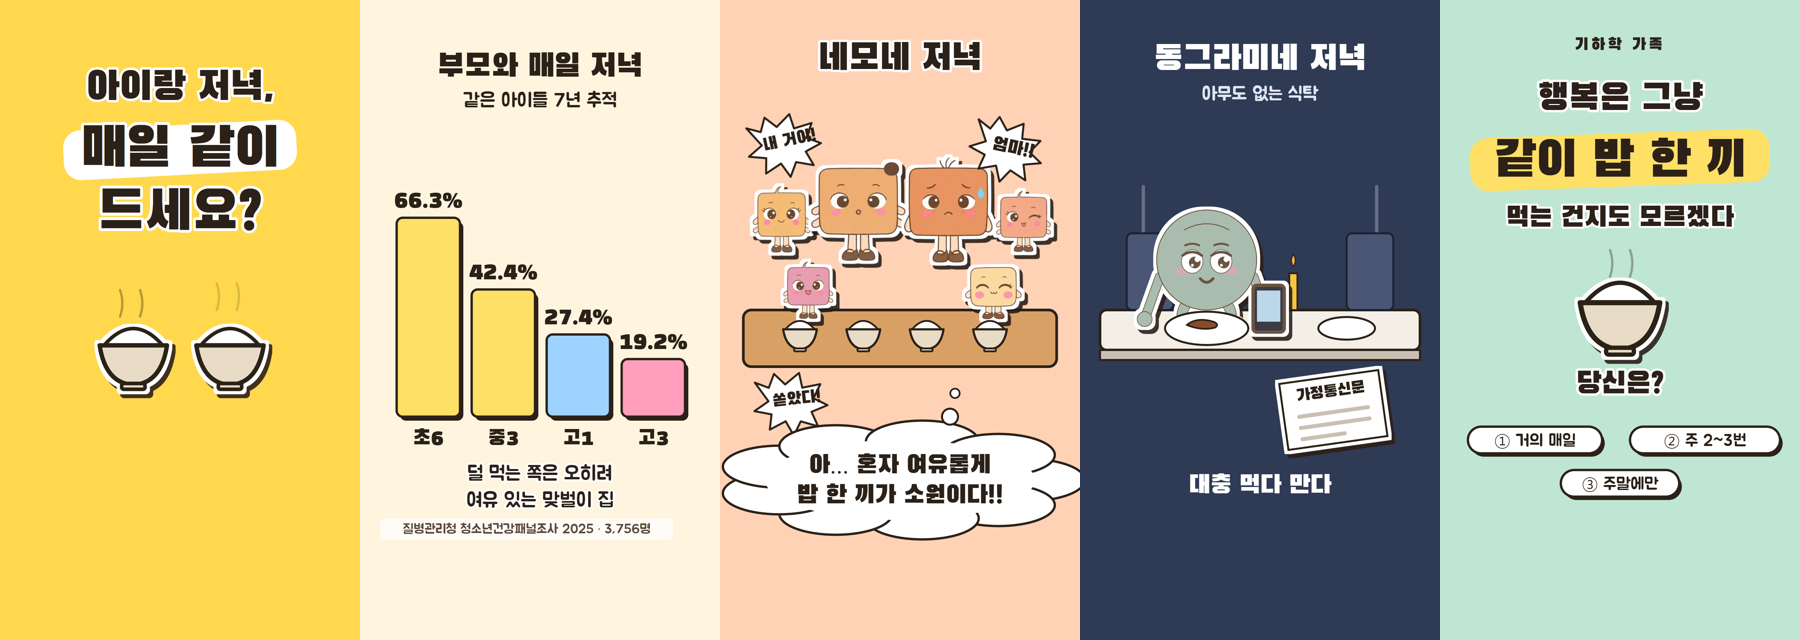
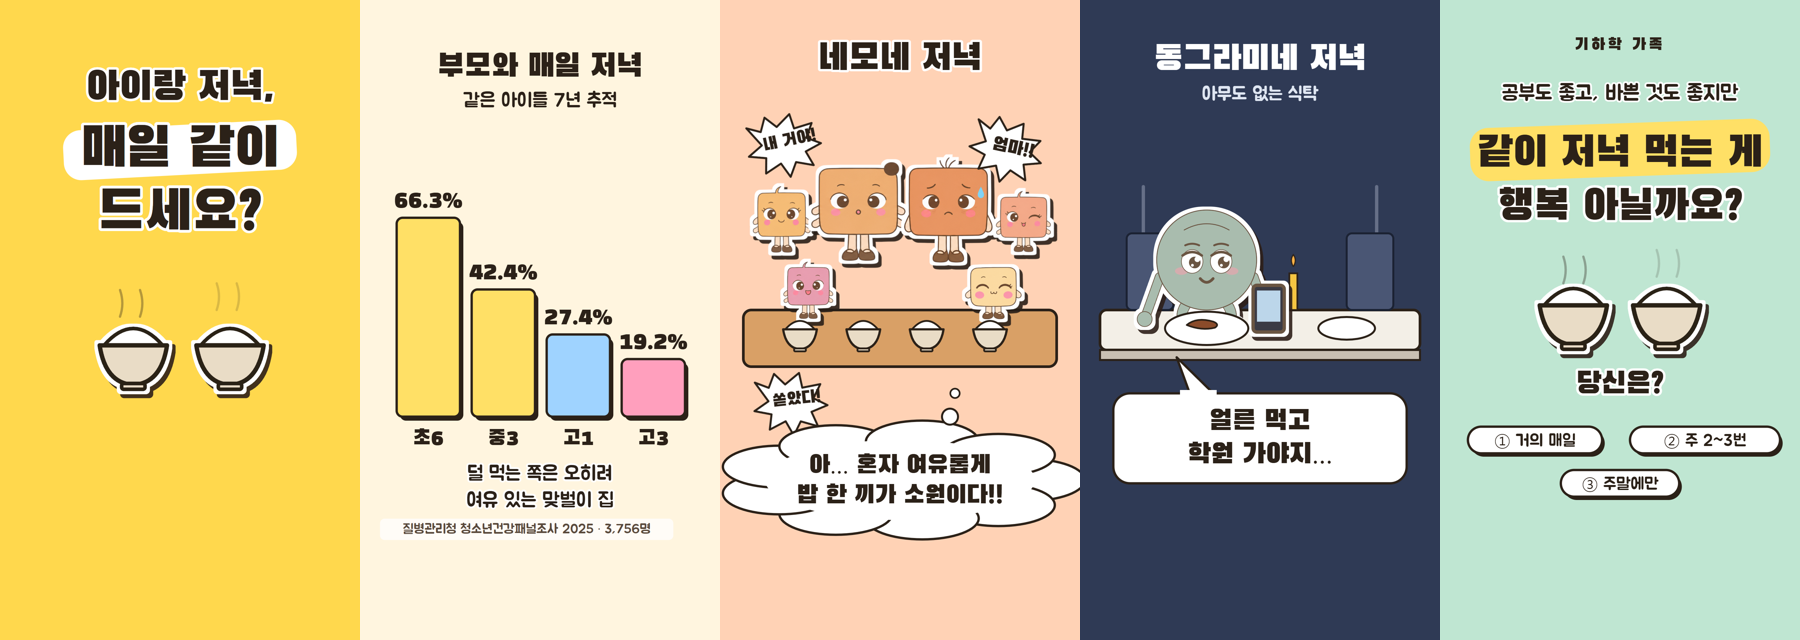
[shorts] s03 v2 — 작가 수정: 나레이션은 1·2·5컷만, 네모네는 움직임으로, 동그라미 아들 말풍선 '얼른 먹고 학원 가야지…', 착지 '같이 저녁 먹는 게 행복 아닐까요?'
도구: 나레이션/녹음 제목 뒤 부제 허용. 밥그릇 스티커 개별 적용(필터 잘림 수정).

Claude-Session: https://claude.ai/code/session_01B59xgHZtNiHCFMMXcUhcu9

Changed region(s): [[0.8089, 0.125, 0.9956, 0.375], [0.5911, 0.5625, 0.8089, 0.7812], [0.84, 0.4062, 0.9644, 0.5625]]

diff --git a/web/shorts/s03.html b/web/shorts/s03.html
@@ -43,7 +43,7 @@ frame(C.yellow, `
   ${T(540, 300, '아이랑 저녁,', 120, { font: HEAD, outline: 14 })}
   ${hl(540, 450, 700, 150, '#fff', -3)}
   ${head(['매일 같이', '드세요?'], 500, 165)}
-  ${sticker(bowl(400, 1080, 2.2, '#e9dcc6') + bowl(690, 1080, 2.2, '#e9dcc6'))}
+  ${sticker(bowl(400, 1080, 2.2, '#e9dcc6'))}${sticker(bowl(690, 1080, 2.2, '#e9dcc6'))}
   ${steam(390, 950)}${steam(680, 950, -0.5)}
 `);
 
@@ -95,23 +95,26 @@ frame('#2f3a55', `
   ${sticker(anim('a-slow', dongSon({ cx: 380, cy: 780, r: 150, emo: 'good', gaze: 1, item: 'phone' })))}
   ${plate(380, 985, 250, `<path d="M320,975 q30,-25 80,-10 q20,8 5,18 q-40,10 -85,-8z" fill="#8a4b2a" stroke="${INK2}" stroke-width="5"/>`)}
   ${plate(800, 985, 170)}
-  ${sticker(notice(760, 1230, -8))}
-  ${T(540, 1480, '대충 먹다 만다', 76, { font: HEAD, fill: '#fff' })}
+  <path d="M150,1180 h780 a50,50 0 0 1 50,50 v170 a50,50 0 0 1 -50,50 h-780 a50,50 0 0 1 -50,-50 v-170 a50,50 0 0 1 50,-50z" fill="#fff" stroke="${INK2}" stroke-width="7"/>
+  <path d="M330,1182 l-40,-110 l110,108z" fill="#fff" stroke="${INK2}" stroke-width="7" stroke-linejoin="round"/>
+  <rect x="300" y="1170" width="110" height="20" fill="#fff"/>
+  ${T(540, 1290, '얼른 먹고', 84, { font: HEAD })}
+  ${T(540, 1390, '학원 가야지…', 84, { font: HEAD })}
 `);
 
 // ── 5 착지 — 작가 나레이션 ──
 frame(C.mint, `
-  ${T(540, 330, '행복은 그냥', 110, { font: HEAD, outline: 14 })}
-  ${hl(540, 480, 900, 160, C.hlY, -2)}
-  ${head(['같이 밥 한 끼'], 530, 150, { outline: 0 })}
-  ${T(540, 680, '먹는 건지도 모르겠다', 84, { font: HEAD, outline: 12 })}
-  ${sticker(bowl(540, 960, 2.6, '#e9dcc6'))}
-  ${steam(540, 830)}
+  ${T(540, 150, '기하학 가족', 50, { font: HEAD, extra: 'letter-spacing="8"' })}
+  ${T(540, 300, '공부도 좋고, 바쁜 것도 좋지만', 64, { outline: 10 })}
+  ${hl(540, 450, 900, 160, C.hlY, -2)}
+  ${head(['같이 저녁 먹는 게'], 500, 128, { outline: 0 })}
+  ${T(540, 660, '행복 아닐까요?', 128, { font: HEAD, outline: 14 })}
+  ${sticker(bowl(400, 960, 2.2, '#e9dcc6'))}${sticker(bowl(680, 960, 2.2, '#e9dcc6'))}
+  ${steam(400, 850)}${steam(680, 850, -0.5)}
   ${T(540, 1180, '당신은?', 90, { font: HEAD, outline: 14 })}
   ${pill(285, 1320, '① 거의 매일', 50)}
   ${pill(795, 1320, '② 주 2~3번', 50)}
   ${pill(540, 1450, '③ 주말에만', 50)}
-  ${T(540, 150, '기하학 가족', 50, { font: HEAD, extra: 'letter-spacing="8"' })}
 `);
 
 SH.mount();

diff --git a/tools/shorts_video.py b/tools/shorts_video.py
@@ -26,7 +26,7 @@ def read_table(md):
 
 def read_narration(md):
     """「## 나레이션」 표 → {컷 번호: 대사}"""
-    sec = re.search(r"## 나레이션\n(.*?)(?=\n## |\Z)", md, re.S)
+    sec = re.search(r"## 나레이션[^\n]*\n(.*?)(?=\n## |\Z)", md, re.S)
     if not sec:
         return {}
     return {int(m[1]): m[2].strip() for m in re.finditer(r"^\|\s*(\d+)\s*\|\s*([^|]+?)\s*\|\s*$", sec[1], re.M)}
@@ -56,7 +56,7 @@ async def tts(lines, voice, rate, outdir):
 
 def read_rec(md):
     """「## 녹음」 표 → {컷 번호: [(시작, 끝), …]}"""
-    sec = re.search(r"## 녹음\n(.*?)(?=\n## |\Z)", md, re.S)
+    sec = re.search(r"## 녹음[^\n]*\n(.*?)(?=\n## |\Z)", md, re.S)
     if not sec:
         return {}
     out = {}

diff --git a/content/shorts/s03.md b/content/shorts/s03.md
@@ -16,18 +16,16 @@
 | 1 | 0.0–2.5 | `f1.png` | **아이랑 저녁, 매일 같이 드세요?** / 밥그릇 두 개, 김 | 김 피어오름(루프) |
 | 2 | 2.5–6.0 | `f2.png` | 계단 막대 초6 66.3% · 중3 42.4% · 고1 27.4% · 고3 19.2% / 덜 먹는 쪽은 여유 있는 맞벌이 집 | 정지 |
 | 3 | 6.0–10.0 | `f3.png` | 네모네 여섯 식구 왁자지껄 + 외침 3개 / 속마음 "아… 혼자 여유롭게 밥 한 끼가 소원이다!!" | 식구들 엇박자로 들썩·오물, 외침 흔들(루프) |
-| 4 | 10.0–14.0 | `f4.png` | 동그라미네 빈 고급 식탁, 아들 혼자 폰, 먹다 만 접시, 가정통신문 | 아들 느린 숨, 촛불만 흔들(루프) |
-| 5 | 14.0–18.0 | `f5.png` | **행복은 그냥 같이 밥 한 끼 먹는 건지도 모르겠다** + ①②③ | 김 피어오름(루프) |
+| 4 | 10.0–14.0 | `f4.png` | 동그라미네 빈 고급 식탁, 아들 혼자 폰, 먹다 만 접시 / 말풍선 "얼른 먹고 학원 가야지…" | 아들 느린 숨, 촛불만 흔들(루프) |
+| 5 | 14.0–18.0 | `f5.png` | 공부도 좋고, 바쁜 것도 좋지만 **같이 저녁 먹는 게 행복 아닐까요?** + ①②③ | 김 피어오름(루프) |
 
-## 나레이션
-작가 녹음 예정. 3컷 속마음은 크게("소원이다!!"), 4컷은 조용히, 5컷은 가장 느리게.
+## 나레이션 (v2, 2026-09-29 작가 수정: 말은 줄이고 그림이 말한다)
+3·4컷은 **나레이션 없음** — 네모네 왁자지껄은 움직임과 그림으로, 동그라미네는 아들 말풍선으로.
 | 컷 | 대사 |
 |---|---|
 | 1 | 아이랑 저녁, 매일 같이 드세요? |
-| 2 | 같은 아이들을 칠 년 따라가 봤더니, 초6 땐 셋 중 둘이 매일. 고3이 되니, 다섯 중 하나. 덜 먹는 쪽은 오히려, 여유 있는 맞벌이 집이었어요. |
-| 3 | 정신없이 왁자지껄한 네모네 저녁. 네모는 생각한다. …아, 혼자 여유롭게 밥 한 끼 먹는 게 소원이다! |
-| 4 | 아무도 없는 동그라미네 고급 식탁. 아들은 폰을 보며, 대충 먹다 만다. 그리곤 옆에, 통신문을 내려놓는다. |
-| 5 | 행복은 그냥, 같이 밥 한 끼 먹는 건지도 모르겠다. 당신은요? |
+| 2 | 초6 땐 셋 중 둘이 매일. 고3이 되면, 다섯 중 하나. |
+| 5 | 공부도 좋고, 바쁜 것도 좋지만, 같이 저녁 먹는 게 행복 아닐까요? |
 
 ## 녹음
 (녹음 대기)
@@ -35,7 +33,7 @@
 ## 업로드
 - 제목: `아이랑 저녁, 매일 같이 드세요? #shorts`
 - 캡션: `초6 땐 셋 중 둘, 고3이 되면 다섯 중 하나.
-행복은 그냥, 같이 밥 한 끼 먹는 건지도 모르겠습니다.
+공부도 좋고, 바쁜 것도 좋지만 같이 저녁 먹는 게 행복 아닐까요?
 당신은? ① 거의 매일 ② 주 2~3번 ③ 주말에만
 📊 질병관리청 청소년건강패널조사 2025(같은 청소년 3,756명 7년 추적) · 서울신문 2026.8.16`
 - 해시태그: `#가족밥상 #저녁식사 #고3 #맞벌이 #공감툰 #기하학가족 #숏툰`
